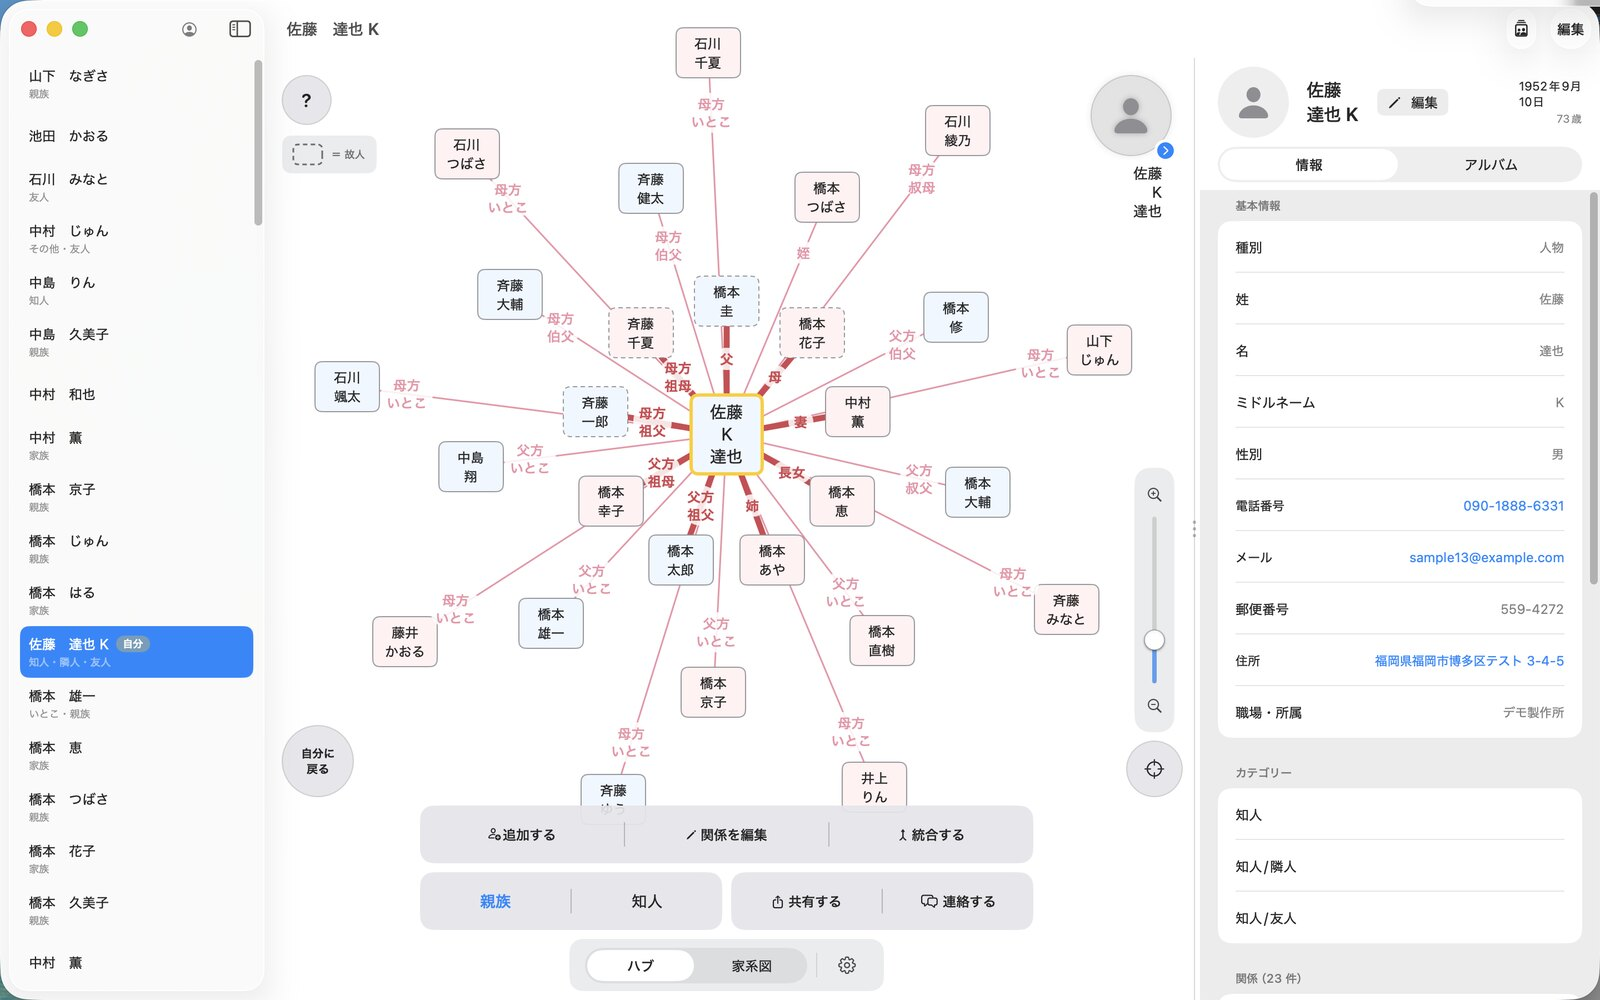
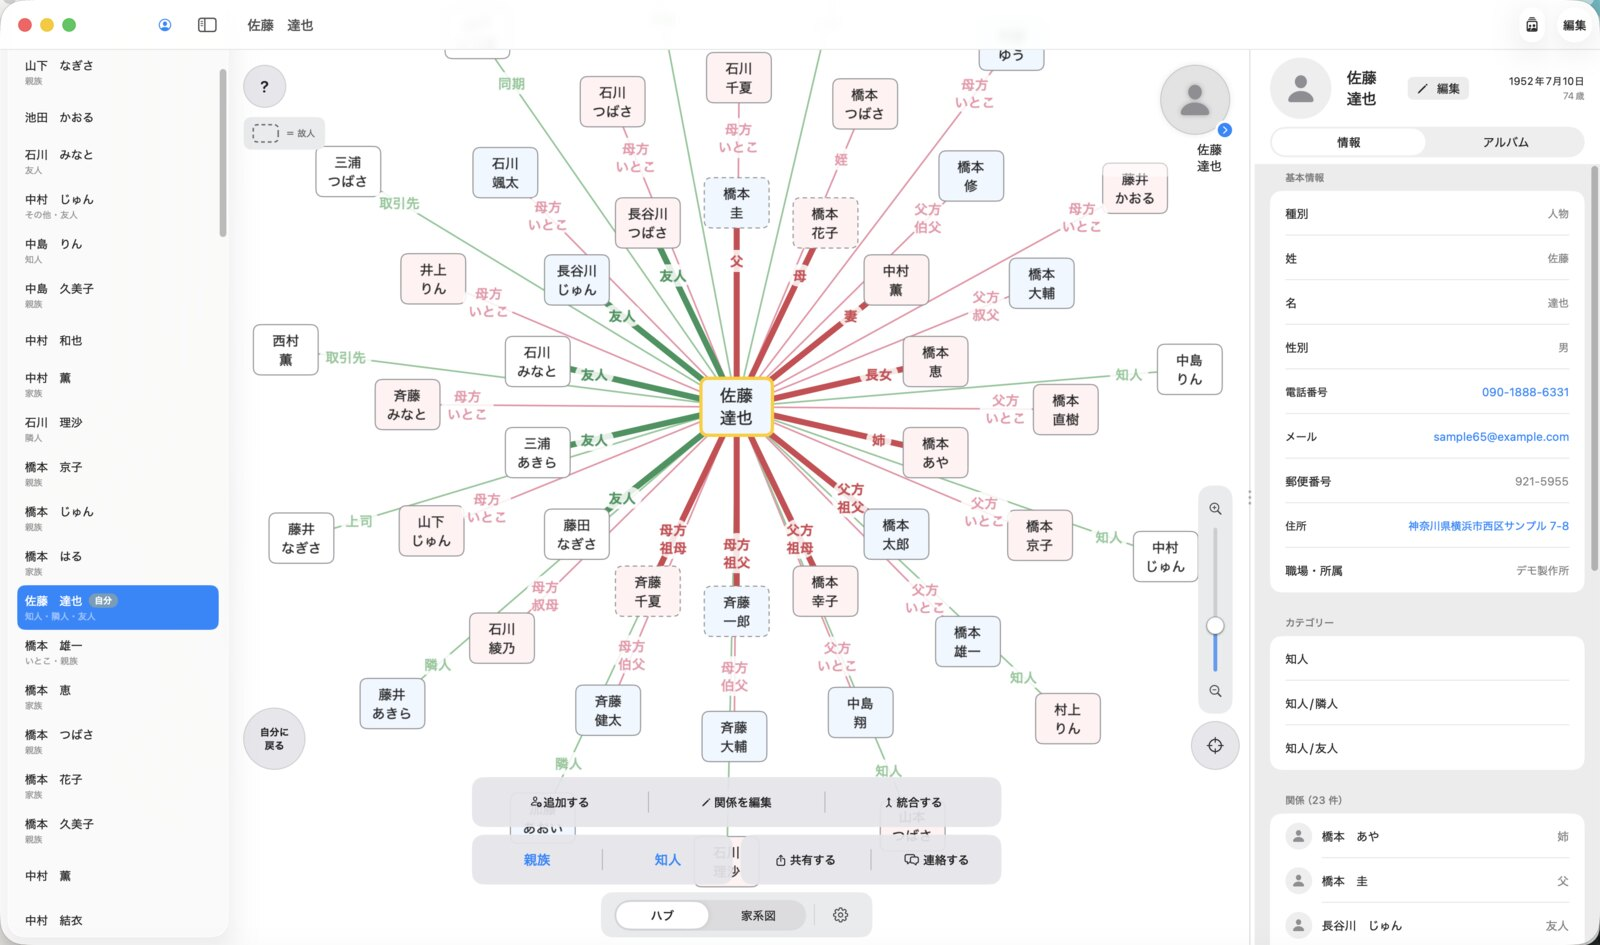
Mac版の画像3枚を撮り直し（同じウィンドウサイズでそろえた）
- ハブ: 相関図の全体＋左の一覧＋右のプロフィールが見える構図に
- 家系図: 世代が広がった状態
- アルバム: 下までスクロールし、有名人に似た写真が写らない位置で撮影
  （2026年・2022年の写真は Mac 側にまだ残っているため、必ず下まで送ること）
- 3枚とも 1668x985 のウィンドウから撮り、縮尺をそろえた
- プロフィール欄の値はデモ表示の伏せ字（架空の電話番号・メール・住所）

diff --git a/index.html b/index.html
@@ -288,7 +288,7 @@
       iPhone 版をお持ちの方は、追加のお支払いなくそのままお使いいただけます。
     </p>
     <div style="margin-top:34px">
-      <div class="macshot"><img src="img/mac_1_hub.jpg" alt="Mac版の画面。左に一覧、中央に相関図、右にプロフィール" width="1600" height="1000" loading="lazy"></div>
+      <div class="macshot"><img src="img/mac_1_hub.jpg" alt="Mac版の画面。左に一覧、中央に相関図、右にプロフィール" width="1600" height="945" loading="lazy"></div>
     </div>
     <div class="macgrid">
       <div>
@@ -296,7 +296,7 @@
         <p>家系図も、広い画面でまとめて見渡せます</p>
       </div>
       <div>
-        <div class="macshot"><img src="img/mac_3_album.jpg" alt="Mac版のアルバム表示" width="1600" height="1000" loading="lazy"></div>
+        <div class="macshot"><img src="img/mac_3_album.jpg" alt="Mac版のアルバム表示" width="1600" height="945" loading="lazy"></div>
         <p>アルバムは大きく開いて、じっくり見られます</p>
       </div>
     </div>
